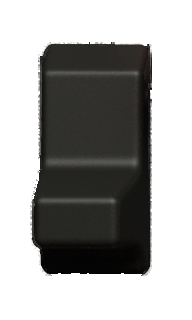
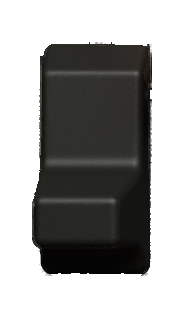
fix(panel): reference slate behind the caps, no light bits at cap corners

diff --git a/tools/panel_assets.py b/tools/panel_assets.py
@@ -253,9 +253,33 @@ def render(raw: Path = RAW_DIR) -> None:
     subprocess.run(cmd, check=True)
 
 
+def retexture_slot(render, tile, target, slot_lum: float = 40.0):
+    """Keep the Blender slot (dark pixels and their 1 px edge) and replace the rendered slate
+    around it with the reference slate tile (D17), shifted to the measured slate colour of the
+    drawbar area, so the plate behind the caps has the reference grain."""
+    import numpy as np
+    from PIL import Image, ImageFilter
+
+    from_render = np.asarray(render.convert("RGB"), dtype=np.float64)
+    lum = from_render.mean(axis=2)
+    slot = Image.fromarray(((lum < slot_lum) * 255).astype(np.uint8)).filter(
+        ImageFilter.MaxFilter(3)
+    )
+    keep = np.asarray(slot.filter(ImageFilter.GaussianBlur(0.8)), dtype=np.float64)[..., None] / 255
+    t = np.asarray(tile.convert("RGB"), dtype=np.float64)
+    reps = (-(-from_render.shape[0] // t.shape[0]), -(-from_render.shape[1] // t.shape[1]), 1)
+    t = np.tile(t, reps)[: from_render.shape[0], : from_render.shape[1]]
+    t = t - t.mean(axis=(0, 1)) + np.asarray(target, dtype=np.float64)
+    out = from_render * keep + t * (1 - keep)
+    return Image.fromarray(np.clip(np.rint(out), 0, 255).astype(np.uint8), "RGB").convert("RGBA")
+
+
 def pack(raw: Path = RAW_DIR, proof: Path = PROOF_DIR) -> dict:
-    """Stitch the Blender filmstrips and copy the Blender sprites; the reference-derived
-    sprites are already written by panel_refbake.py. Then rebuild the manifest."""
+    """Stitch the Blender filmstrips and copy the Blender sprites (the slot plate gets the
+    reference slate grain); the reference-derived sprites are already written by
+    panel_refbake.py, which must run first. Then rebuild the manifest."""
+    from PIL import Image
+
     for s in SCALES:
         for strip in FILMSTRIPS:
             name = "knob" if strip == "knob_filmstrip" else strip
@@ -263,6 +287,10 @@ def pack(raw: Path = RAW_DIR, proof: Path = PROOF_DIR) -> dict:
         for name in SPRITES:
             src = raw / f"{name}_{s}x.png"
             (proof / src.name).write_bytes(src.read_bytes())
+        slot = proof / f"plate_slate_slot_{s}x.png"
+        with Image.open(slot) as im, Image.open(proof / f"plate_slate_{s}x.png") as tile:
+            target = json.loads(REF_CROPS.read_text(encoding="utf-8"))["slot_plate_target"]
+            save_png(retexture_slot(im, tile, target), slot)
     manifest = build_manifest(proof)
     (proof / "manifest.json").write_text(json.dumps(manifest, indent=2) + "\n", encoding="utf-8")
     return manifest

diff --git a/tools/tests/test_panel_assets.py b/tools/tests/test_panel_assets.py
@@ -248,3 +248,15 @@ def test_blender_scripts_share_constants_parse_and_stay_small():
         ast.parse(text)  # bpy is unavailable outside Blender; syntax only
         assert len(text.splitlines()) < 400, f.name
         assert "ORIGINAL" in text or "Original art" in text or "(D16)" in text, f.name
+
+
+def test_retexture_slot_keeps_slot_and_uses_tile_grain():
+    render = Image.new("RGB", (40, 60), (90, 100, 110))
+    render.paste((10, 10, 10), (17, 0, 23, 60))  # the slot
+    rng = np.random.default_rng(3)
+    tile = Image.fromarray(rng.integers(40, 70, size=(16, 16, 3)).astype(np.uint8), "RGB")
+    out = np.asarray(P.retexture_slot(render, tile, (47, 57, 68)).convert("RGB"), dtype=float)
+    assert out[30, 20].max() < 20  # slot kept
+    plate = out[:, :12].reshape(-1, 3)
+    assert np.allclose(plate.mean(axis=0), (47, 57, 68), atol=3)  # tile, shifted to target
+    assert plate.std(axis=0).min() > 4  # grain, not the flat render

diff --git a/tools/tests/test_panel_refcaps.py b/tools/tests/test_panel_refcaps.py
@@ -66,3 +66,13 @@ def test_cap_layers_white_and_black():
         assert ca[150, 150, :3].tolist() == list(rgb), kind
         assert sa[258, 160, 3] > 40, kind  # darkened slate below the cap becomes shadow
         assert sa[20, 50, 3] == 0, kind  # clean slate far away casts nothing
+
+
+def test_matte_ignores_bluish_label_next_to_the_cap():
+    a = np.zeros((40, 40, 3)) + (52, 62, 75)
+    a[:8] = (181, 192, 206)  # silver label strip above
+    a[10:30, 10:30] = (232, 230, 226)  # cap
+    m = np.zeros((40, 40), bool)
+    m[10:30, 10:30] = True
+    alpha, rgb = RC.matte(a, m)
+    assert alpha[7, 20] == 0 and alpha[20, 20] == 1

diff --git a/tools/panel_refcaps.py b/tools/panel_refcaps.py
@@ -154,6 +154,10 @@ def matte(a: np.ndarray, m: np.ndarray, band: int = 2) -> tuple[np.ndarray, np.n
     edge = ~core & ~outer
     alpha = np.where(core, 1.0, 0.0)
     alpha = np.where(edge, np.where(strong, np.clip(t, 0, 1), m.astype(float)), alpha)
+    # outside the mask only neutral pixels can be cap edge; bluish ones are slate or a silver
+    # label next to the cap, which would otherwise unmix as light bits at the corners
+    bluish = a[..., 2] - a[..., 0] >= 10
+    alpha = np.where(~m & bluish, 0.0, alpha)
     rgb = np.where(edge[..., None], cap_c, a)
     return alpha, rgb
 

diff --git a/docs/research/panel-blender-proof.md b/docs/research/panel-blender-proof.md
@@ -65,7 +65,7 @@ MAD (mean absolute difference, 0..255) compares ours with the same reference are
 
 Sizes with the full style set: the proof set is 824 KB (1x) / 2.76 MB (2x) PNG. The full-panel estimate assumes 6 knob styles and 15 button styles, each button getting two more states later: 2.16 MB / 6.64 MB PNG, and 15.5 MB / 62.1 MB RGBA in GPU memory. The private comparison sheet is `.reference/panel-compare-v5.png`.
 
-Owner review of v4 (2026-11-13): the Blender drawbar and layer caps did not match, the DRIVE knob looked flat with a light red rim, and its "6" was clipped. Fixes: the caps are now cut from the reference with their own shadow layers. The knob edge colours are taken from the cap interior instead of the red plate. Second review: the plate grain was too soft (patch blending and the whole-tile cross-fade averaged two textures), so the tiles are now quilted on a torus with narrow overlaps. The caps showed a light halo, LED glow and label ticks; they now use a colour matte on the edge (alpha from the position between the local cap and plate colours), the LED glow is recoloured from the clean cap, the top block sides are straightened, and the shadow layer leaves out the edge pixels next to the cap. The button crops are inset 1 px. Top-face pointer pixels are inpainted by turning about the leaning top centre. The label mask no longer touches the "6".
+Owner review of v4 (2026-11-13): the Blender drawbar and layer caps did not match, the DRIVE knob looked flat with a light red rim, and its "6" was clipped. Fixes: the caps are now cut from the reference with their own shadow layers. The knob edge colours are taken from the cap interior instead of the red plate. Second review: the plate grain was too soft (patch blending and the whole-tile cross-fade averaged two textures), so the tiles are now quilted on a torus with narrow overlaps. The caps showed a light halo, LED glow and label ticks; they now use a colour matte on the edge (alpha from the position between the local cap and plate colours), the LED glow is recoloured from the clean cap, the top block sides are straightened, and the shadow layer leaves out the edge pixels next to the cap. The button crops are inset 1 px. Third review: light bits at the white cap corners came from the silver label next to the cap unmixing as cap; bluish pixels outside the cap are now always transparent. The plate behind the caps (`plate_slate_slot`) was still the Blender slate; `pack` now keeps only the Blender slot and fills the plate with the reference slate tile shifted to the darker slate of the drawbar area (47, 57, 68), so that plate is now reference-derived (D17). Top-face pointer pixels are inpainted by turning about the leaning top centre. The label mask no longer touches the "6".
 
 Knob lean (v4 finding): on the reference, the DRIVE pointer sits 5.5 px below the base centre, so the optical axis is above the left column of knobs. The render is cropped off-centre vertically, and the v3 assumption that the axis sits at the image centre (`ASSUMED`) was wrong for y. The reference knobs now use lean y +1.0 / +1.4 u (`EMPIRICAL`).
 

diff --git a/docs/DECISIONS.md b/docs/DECISIONS.md
@@ -220,5 +220,5 @@ Each decision records **Context, Decision, Why, Alternatives, Impact**, plus **S
 - **Impact:**
   - **Copyright risk:** the repository `ymatrix1/nord-stage-4-emulator` is public. The committed sprites below are derived from Clavia's own product imagery. Publishing them carries a copyright (and, for the look of the product, trade-dress) risk that D16 had avoided. The owner accepted this risk on 2026-11-13. This is a project decision, not legal advice.
   - **Reference-derived files** (both 1x and 2x, in `assets/panel/proof/`): `button_*` (15 buttons), `tri_organ_model`, `tri_vib_chorus`, `tri_lit_left`, `tri_lit_up`, `knob_body_master`, `knob_body_drive`, `knob_scale`, `drawbar_cap_black`, `drawbar_cap_white`, `layer_cap_grey` and their `*_shadow_*` layers, `plate_red`, `plate_slate`, `plate_silver`. The list is generated by `panel_assets.ref_sprites()`. These can be swapped back to original renders by dropping them from `ref_crops.json` and restoring the Blender stages.
-  - **Still original (D16 rules):** `knob_filmstrip` (generic knob), `pointer_*` filmstrips, `knob_shadow_*`, `knob_ring`, `plate_slate_slot`.
+  - **Still original (D16 rules):** `knob_filmstrip` (generic knob), `pointer_*` filmstrips, `knob_shadow_*`, `knob_ring`, and the slot itself in `plate_slate_slot` (its plate area is the reference slate tile).
   - Provenance tags: reference-derived sprites are tagged `REFERENCE-DERIVED (D17)` in `ref_crops.json`, the research note and spec [visual-style-and-panel.md](specs/visual-style-and-panel.md) §6.
